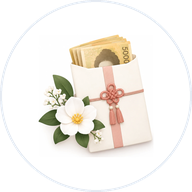
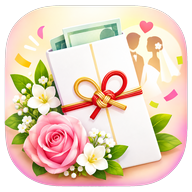
앱 아이콘을 새 봉투·장미 그림으로 교체, v109
Claude-Session: https://claude.ai/code/session_01AxBdZw76bc6EVnq8bjS56U

diff --git a/index.html b/index.html
@@ -5,8 +5,8 @@
 <meta name="viewport" content="width=device-width, initial-scale=1, viewport-fit=cover, interactive-widget=resizes-content">
 <meta name="theme-color" content="#12467a">
 <link rel="manifest" href="./manifest.json">
-<link rel="icon" href="./icon-192.png?v=5">
-<link rel="apple-touch-icon" href="./icon-192.png?v=5">
+<link rel="icon" href="./icon-192.png?v=6">
+<link rel="apple-touch-icon" href="./icon-192.png?v=6">
 <title>축의금 장부</title>
 <style>
   :root {
@@ -555,7 +555,7 @@
 <script src="./xlsx.js"></script>
 <script>
 'use strict';
-const APP_VERSION = 'v108'; // sw.js의 CACHE_NAME(gift-vN)과 반드시 같은 값으로 올린다.
+const APP_VERSION = 'v109'; // sw.js의 CACHE_NAME(gift-vN)과 반드시 같은 값으로 올린다.
 const $ = id => document.getElementById(id);
 const fmt = n => n.toLocaleString('ko-KR');
 // '…니다.' 뒤에서 줄을 바꾼다(화면에는 white-space: pre-line으로 표시).

diff --git a/sw.js b/sw.js
@@ -1,4 +1,4 @@
-const CACHE_NAME = 'gift-v108';
+const CACHE_NAME = 'gift-v109';
 const ASSETS = ['./', './index.html', './xlsx.js', './manifest.json', './icon-192.png', './icon-512.png'];
 // 저장된 파일을 즉시 보여주고(앱이 바로 열림), 새 파일은 뒤에서 받아 다음에 열 때 적용한다.
 // 저장된 파일이 없을 때만 네트워크를 기다린다.
